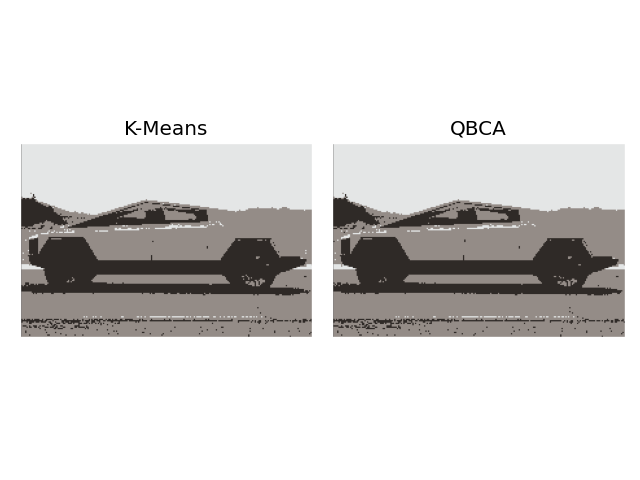
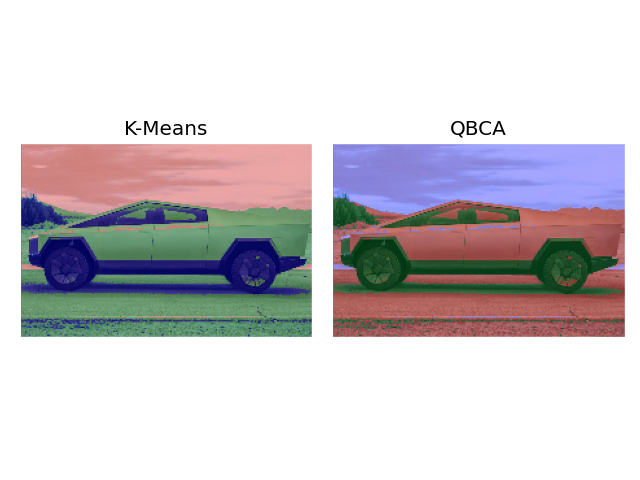
improved segmentation display (relatively)

diff --git a/utils.py b/utils.py
@@ -61,13 +61,23 @@ def plot_segmented(x1, y1, x2, y2, c1, c2, shape, algs, dataset):
     plot_dir = 'output'
     fig, axs = plt.subplots(1, 2)
 
+    colours = np.array([
+        [0, 0, 255], #blue
+        [204, 0, 0], #red
+        [0, 153, 51], #green
+        [53, 0, 153] #purple
+    ])
     for n, (d, l, c) in enumerate(zip([x1, x2], [y1, y2], [c1, c2])):
         im = np.zeros(shape, dtype=int)
-        for s, i in zip(d, l):
-            im[int(s[-2]), int(s[-1]), :] = c[i, :3]
+        seg = np.zeros(shape, dtype=int)
 
-        axs[n].imshow(im)
+        for s, i in zip(d, l):
+            im[int(s[-2]), int(s[-1]), :] = s[:3]
+
+            seg[int(s[-2]), int(s[-1]), :] = colours[i, :]
         axs[n].grid(False)
+        axs[n].imshow(im)
+        axs[n].imshow(seg, alpha=0.35)
         axs[n].set_xticks([])
         axs[n].set_yticks([])
 

diff --git a/compare_segmentations.py b/compare_segmentations.py
@@ -6,7 +6,7 @@ if __name__ == '__main__':
     n_clusters = 3
     thr = 0.01
     max_iter = 50
-    dataset = 'totoro'
+    dataset = 'cybertruck'
     algorithms = ['K-Means', 'QBCA']
     X, im = image_as_dataset(dataset, im_height=150)
 
